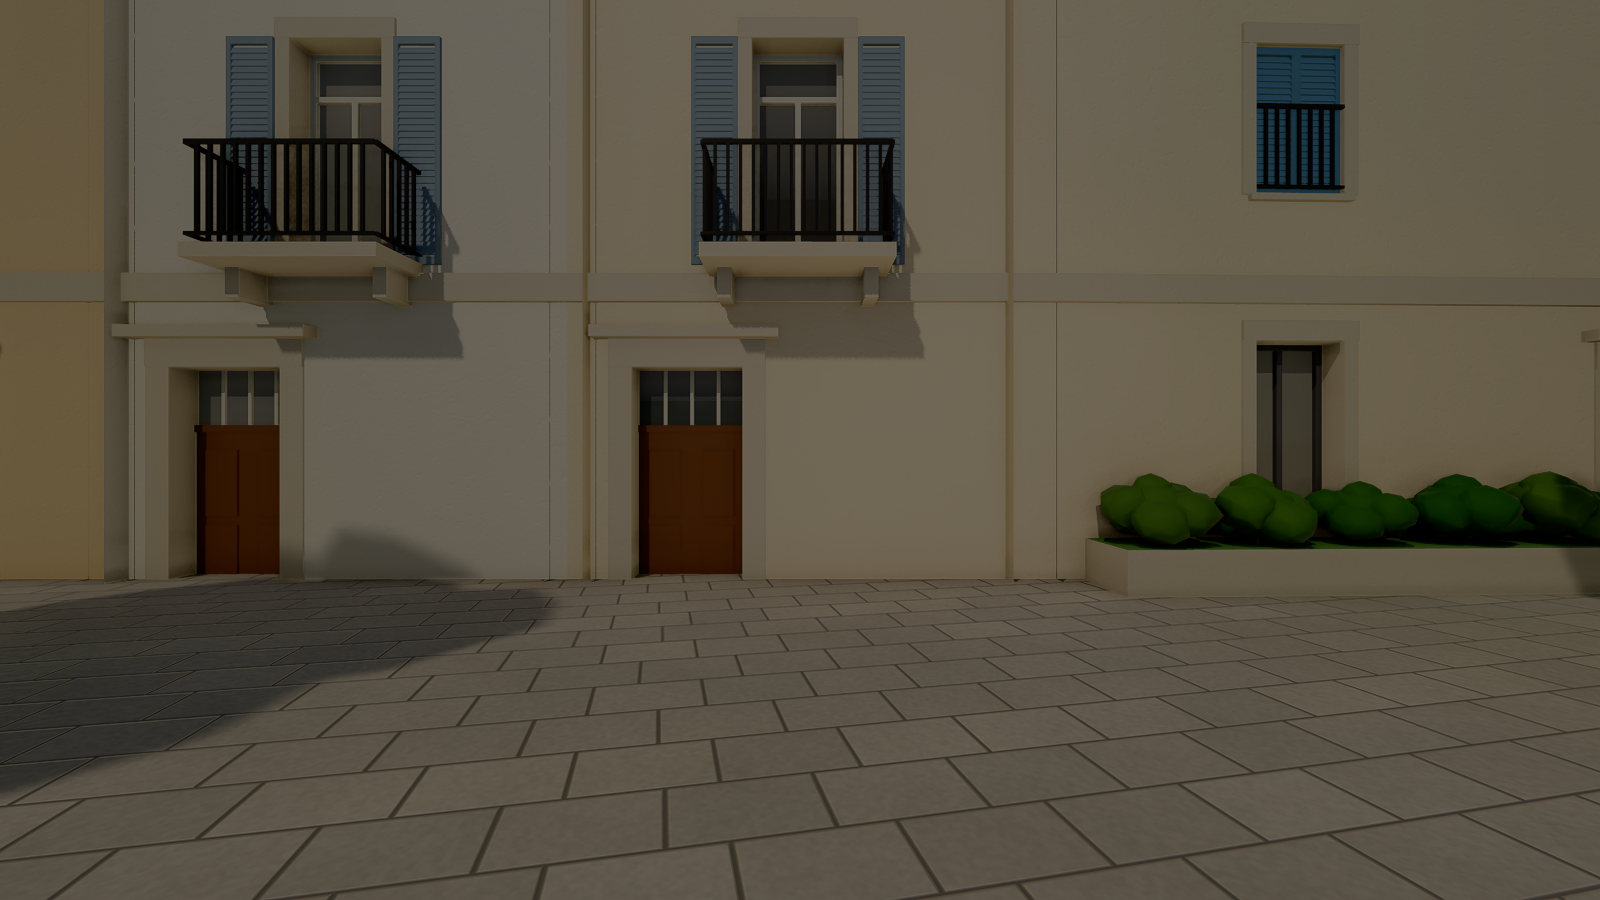
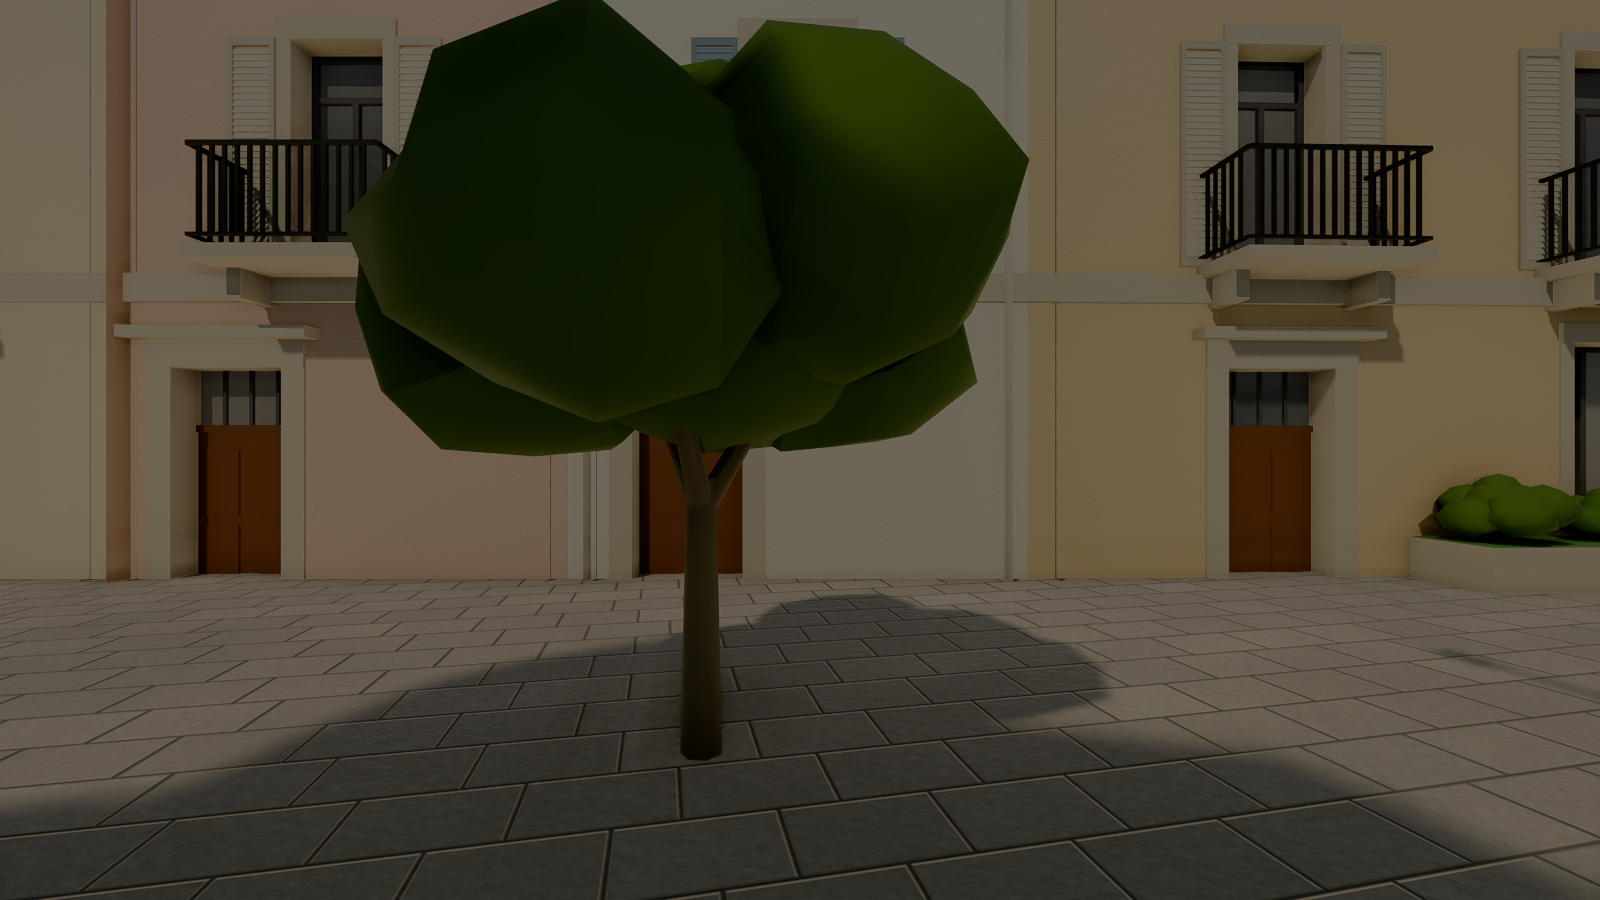
A village's main road is a shared street, its lanes pedestrian (#266)
The village's main road came out as the city's avenue: asphalt lanes, kerbs,
bike lanes and lamp rows through a village of 177 houses. In a village
district the main road is now a shared street (10 m of paving, no taxis)
and the lanes pedestrian, as an old town's (`transit::assign_profiles`);
the city's avenues stay, and neither the example nor the sandbox has a
village district. The village test asserts no avenue through it.

Checks: the gate; the village tests; the map check (the main road's view
and the air view differ, the others not).

diff --git a/crates/forge-procgen/src/city/transit.rs b/crates/forge-procgen/src/city/transit.rs
@@ -412,11 +412,29 @@ pub fn assign_profiles(
     }
     for (i, e) in graph.edges.iter_mut().enumerate() {
         let mid = geom::point_at(&e.points, e.length() * 0.5);
-        let kind = district_index(districts_field, mid).map(|d| districts[d].kind);
+        // Beyond every district's reach, a road takes the nearest district's kind: a village's
+        // main road stays a shared street through its forest.
+        let kind = district_index(districts_field, mid)
+            .map(|d| districts[d].kind)
+            .or_else(|| {
+                districts
+                    .iter()
+                    .filter(|d| d.radius > 0.0)
+                    .min_by(|a, b| {
+                        (mid.distance(a.anchor) / a.radius)
+                            .total_cmp(&(mid.distance(b.anchor) / b.radius))
+                    })
+                    .map(|d| d.kind)
+            });
         e.profile = match (e.class, tram[i], kind) {
             (_, true, _) => Profile::TramAvenue,
+            // A village's main road is a shared street, its lanes pedestrian (D-062's first
+            // map): no avenue with its kerbs, bike lanes and lamp rows through a village.
+            (RoadClass::Main, false, Some(DistrictKind::Village)) => Profile::Shared,
             (RoadClass::Main, false, _) => Profile::Avenue,
-            (RoadClass::Street, false, Some(DistrictKind::OldTown)) => Profile::Pedestrian,
+            (RoadClass::Street, false, Some(DistrictKind::OldTown | DistrictKind::Village)) => {
+                Profile::Pedestrian
+            }
             (RoadClass::Street, false, Some(k)) if k.is_green() => Profile::Path,
             (RoadClass::Street, false, _) => Profile::Shared,
         };

diff --git a/crates/forge-procgen/src/city/village.rs b/crates/forge-procgen/src/city/village.rs
@@ -245,6 +245,15 @@ mod tests {
             .count();
         println!("{} trees, {forest} in the forest", trees.len());
         assert!(forest >= 500, "{forest} forest trees");
+        let mut by_profile = std::collections::BTreeMap::new();
+        for e in &v.plan.roads.edges {
+            *by_profile.entry(format!("{:?}", e.profile)).or_insert(0) += 1;
+        }
+        println!("edges by profile: {by_profile:?}");
+        assert!(
+            !by_profile.contains_key("Avenue"),
+            "an avenue through the village"
+        );
         assert!(v.plan.tram_lines.is_empty() && v.plan.landmarks.is_empty());
         assert!(built >= 4, "{built} built blocks");
         assert!(houses >= 40, "{houses} houses");

diff --git a/docs/demos/city-plan.md b/docs/demos/city-plan.md
@@ -386,10 +386,14 @@ clear of the roads (`trees::Setting::Forest`; pines and oaks of 8–16 m from th
 until the grower's species, #257). A village's whole network is under the 3 km a cut-off
 network had to reach to be kept (`graph::MIN_NETWORK`), so the plan came out empty under
 twice the radius: a network is now kept over 3 km or over half of all the streets. The example
-site at 600 m on its own plan: 16 nodes, 22 edges, 7 blocks, 5 built and all with strips, 177
-houses, 540 people, 3 136 trees in the forest (`reports/2026-10-16/village-own-organic.png`;
+site at 600 m on its own plan: 16 nodes, 22 edges, 7 blocks, 5 built and all with strips, 187
+houses, 565 people, 3 118 trees in the forest (`reports/2026-10-16/village-own-organic.png`;
 `VILLAGE_OWN_PNG=path` draws it). The first cut on the whole site, without the forest, had
-559 houses on 13 blocks.
+559 houses on 13 blocks. **Its streets:** a village's main road is a shared street (10 m of
+paving, no kerbs, bike lanes nor lamp rows) and its lanes are pedestrian, as an old town's,
+through the forest too (a road beyond every district's reach takes the nearest district's
+kind, `transit::assign_profiles`); the city's avenues stay. The narrower streets gave the
+blocks ten more houses.
 **In 3D:** `cargo run --release -p city-plan -- --village 600` draws the village on its own
 plan in place of the city, every house from the kit (`reports/2026-10-16/village-air.png` from
 the air, `village-street.png` from the first house's street, which the log names for
